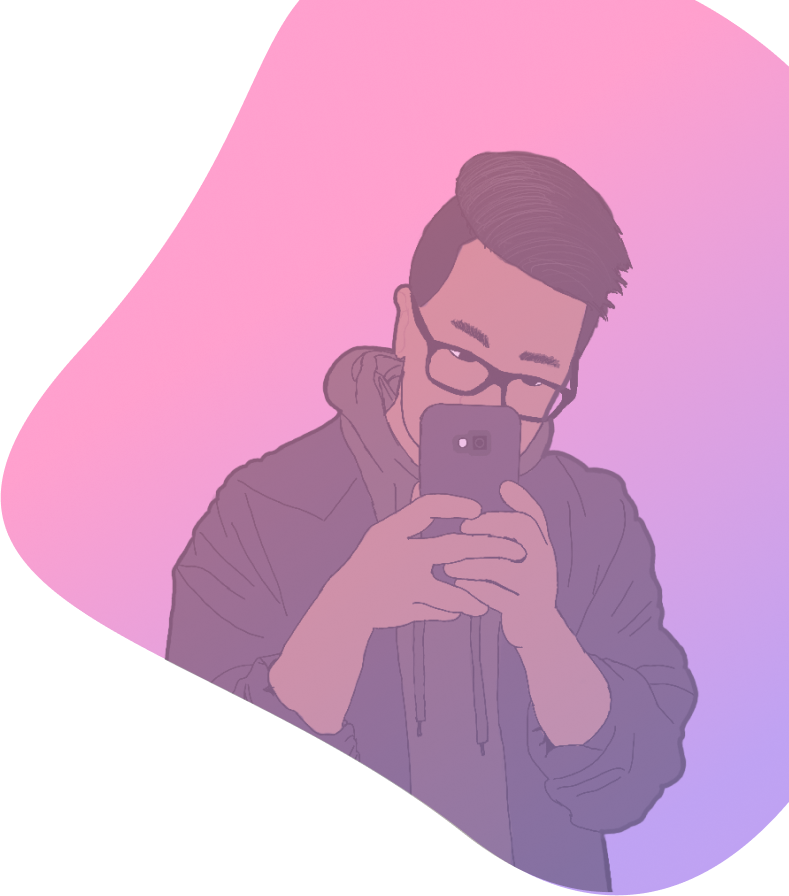
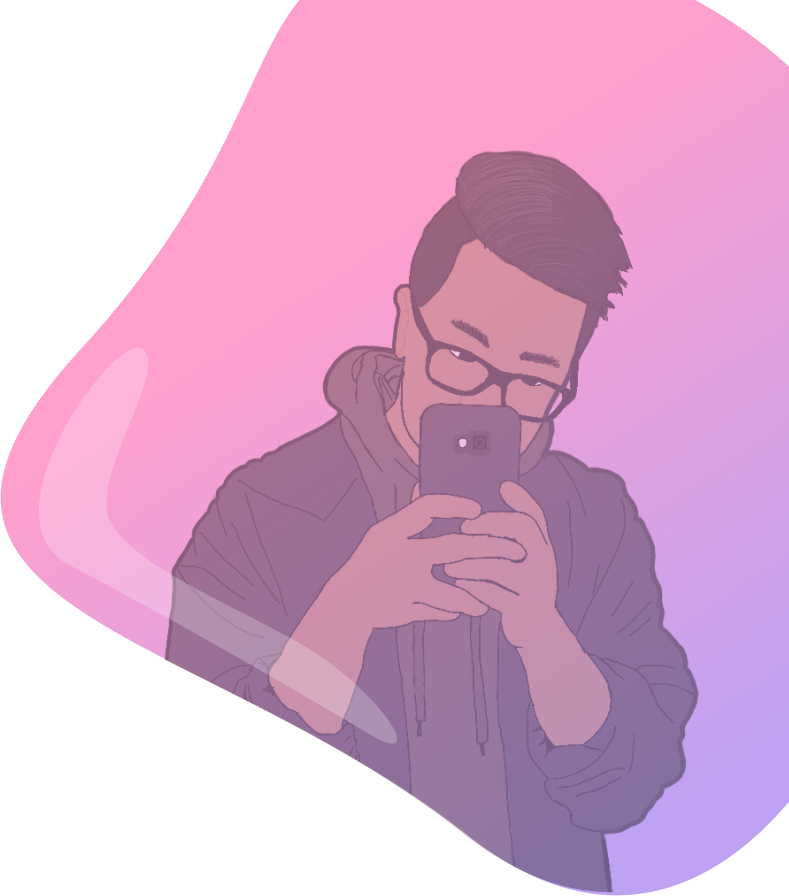
Page à propos en cour

Changed region(s): [[0.2129, 0.625, 0.5171, 0.8438]]

diff --git a/src/page-a-propos.html b/src/page-a-propos.html
@@ -34,23 +34,52 @@
                 </div>
             </header>
 
+            <section class="contenu-a-propos a-propos-wrapper">
                 <section class="introduction">
                     <section class="txt-intro">
                         <h2>Hello! Moi c’est Louis,</h2>
                         <p class="bio">
-                            Je suis un finissant de la technique d’intégration multimédia. Je suis ouvert d’esprit, honnête et créatif. Je cherche un stage multidisciplinaire qui me fera me surpasser.
+                            Je suis un finissant de la technique d’intégration multimédia. Je suis <span class="qualite1">ouvert d’esprit</span>, <span class="qualite2">honnête</span>  et <span class="qualite3">créatif</span> . Je cherche un stage multidisciplinaire qui me fera me surpasser.
                         </p>
                     </section>
                     <img src="assets/images/img-photo.png" alt="Image bio" class="img-intro">
                 </section>
-                <section class="competence">
-                    
+
+                <section class="mes-competence">
+                   <div class="mes-logiciels">
+                        <h4>Mes logiciels</h4>
+                    <div class="logo-logiciels">
+                        <img src="assets/images/logo-unity-deg.png" alt="logo unity" class="logo-logiciel">
+                        <img src="assets/images/logo-after-effect-deg.png" alt="logo after effect" class="logo-logiciel">
+                        <img src="assets/images/logo-vsc-deg.png" alt="logo vsc" class="logo-logiciel">
+                        <img src="assets/images/logo-procreate-deg.png" alt="logo procreate" class="logo-logiciel">
+                        <img src="assets/images/logo-illustrator-deg.png" alt="logo illustrator" class="logo-logiciel">
+                        <img src="assets/images/logo-blender-deg.png" alt="logo blender" class="logo-logiciel">
+                    </div>
+                    </div>
+                    <div class="mes-langages">
+                        <h4>Mes langages</h4>
+                        <div class="logo-langages">
+                            <img src="assets/images/logo-c-sharp-deg.png" alt="logo c#" class="logo-langages">
+                            <img src="assets/images/logo-html-deg.png" alt="logo html" class="logo-langages">
+                            <img src="assets/images/logo-css-deg.png" alt="logo css" class="logo-langages">
+                        </div>
+                    </div>
+                </section>
+                <section class="mes-loisirs">
+                    <h4>Mes loisirs</h4>
+                    <ul class="liste-loisirs">
+                        <li class="loisirs">Jeux vidéo</li>
+                        <li class="loisirs">Dessin</li>
+                        <li class="loisirs">Construire des legos :)</li>
+                    </ul>
                 </section>
 
                 <div class="champi1"></div>
                 <div class="champi2"></div>
                 <div class="blob-a-propos"></div>
             </section>
+            
         </div>
     </body>
 </html>

diff --git a/src/page-projets.html b/src/page-projets.html
@@ -77,9 +77,7 @@
                                 alt="logo vsc"
                                 class="logo-logiciel-projet"
                             />
-                            <svg class="icon icon--lg">
-                                <use xlink:href="#icon-logo-vsc"></use>
-                            </svg>
+                            
                         </div>
                         <a href=""
                             ><button class="btn-page-projet">
@@ -164,9 +162,7 @@
                                 class="logo-logiciel-projet"
                             />
 
-                            <svg class="icon icon--lg">
-                                <use xlink:href="#icon-logo-vsc"></use>
-                            </svg>
+                        
                         </div>
                         <a href=""
                             ><button class="btn-page-projet">

diff --git a/src/styles/components/page-projets.scss b/src/styles/components/page-projets.scss
@@ -8,6 +8,10 @@
         margin-top: 200px;
     }
 
+    h3{
+        white-space: nowrap;
+    }
+
     .le-projet-gauche {
         display: flex;
         justify-content: left;
@@ -106,7 +110,7 @@
         height: 325px;
         background-repeat: no-repeat;
         position: absolute;
-        top: 1500px;
+        top: 1800px;
         left: 0;
     }
     .champi2 {
@@ -115,7 +119,7 @@
         height: 270px;
         background-repeat: no-repeat;
         position: absolute;
-        top: 2500px;
+        top: 1200px;
         right: 0;
     }
     .champi3 {
@@ -134,7 +138,7 @@
         height: 270px;
         background-repeat: no-repeat;
         position: absolute;
-        bottom: 1300px;
+        bottom: 700px;
         left: 0;
         transform: scaleX(-1);
     }

diff --git a/src/styles/components/page-a-propos.scss b/src/styles/components/page-a-propos.scss
@@ -1,0 +1,43 @@
+.a-propos-wrapper{
+    margin: 0 140px;
+    
+    .introduction{
+        position: relative;
+    display: flex;
+
+    .txt-intro{
+        padding-top: 150px;
+        max-width: 748px;
+
+        h2{
+            margin-bottom: 15px;
+        }
+
+        p.bio{
+            margin-top: 0;
+            max-width: 650px;
+        }
+
+        .qualite1{
+            color: #EC014D;
+        }
+        .qualite2{
+            color: #5407DE;
+        }
+        .qualite3{
+            color: #10A3EF;
+        }
+    }
+
+    .img-intro{
+        position: absolute;
+        top: 0;
+        right: -150px;
+    }
+}
+
+    .mes-competence{
+        display: flex;
+    }
+}
+

diff --git a/src/styles/main.scss b/src/styles/main.scss
@@ -30,9 +30,10 @@
 @import 'components/blob.scss';
 @import 'components/hero.scss';
 @import 'components/header.scss';
-@import 'components/section-projets.scss';
+@import 'components/page-projets.scss';
 @import 'components/bouton.scss';
 @import 'components/icons';
+@import 'components/page-a-propos';
 
 // UTILITIES
 // Utilitaires et classes auxiliaires avec possibilité de remplacer tout ce qui précède, par exemple masquer les éléments de la page

diff --git a/src/styles/elements/body.scss b/src/styles/elements/body.scss
@@ -6,7 +6,7 @@
 
 body {
     font-family: var(--font-h2);
-    font-size: var(--font-size-content);
+    font-size: var(--font-size-p);
     color: var(--color-primary);
     line-height: 1.6;
     background: var(--color-bg-primary);
